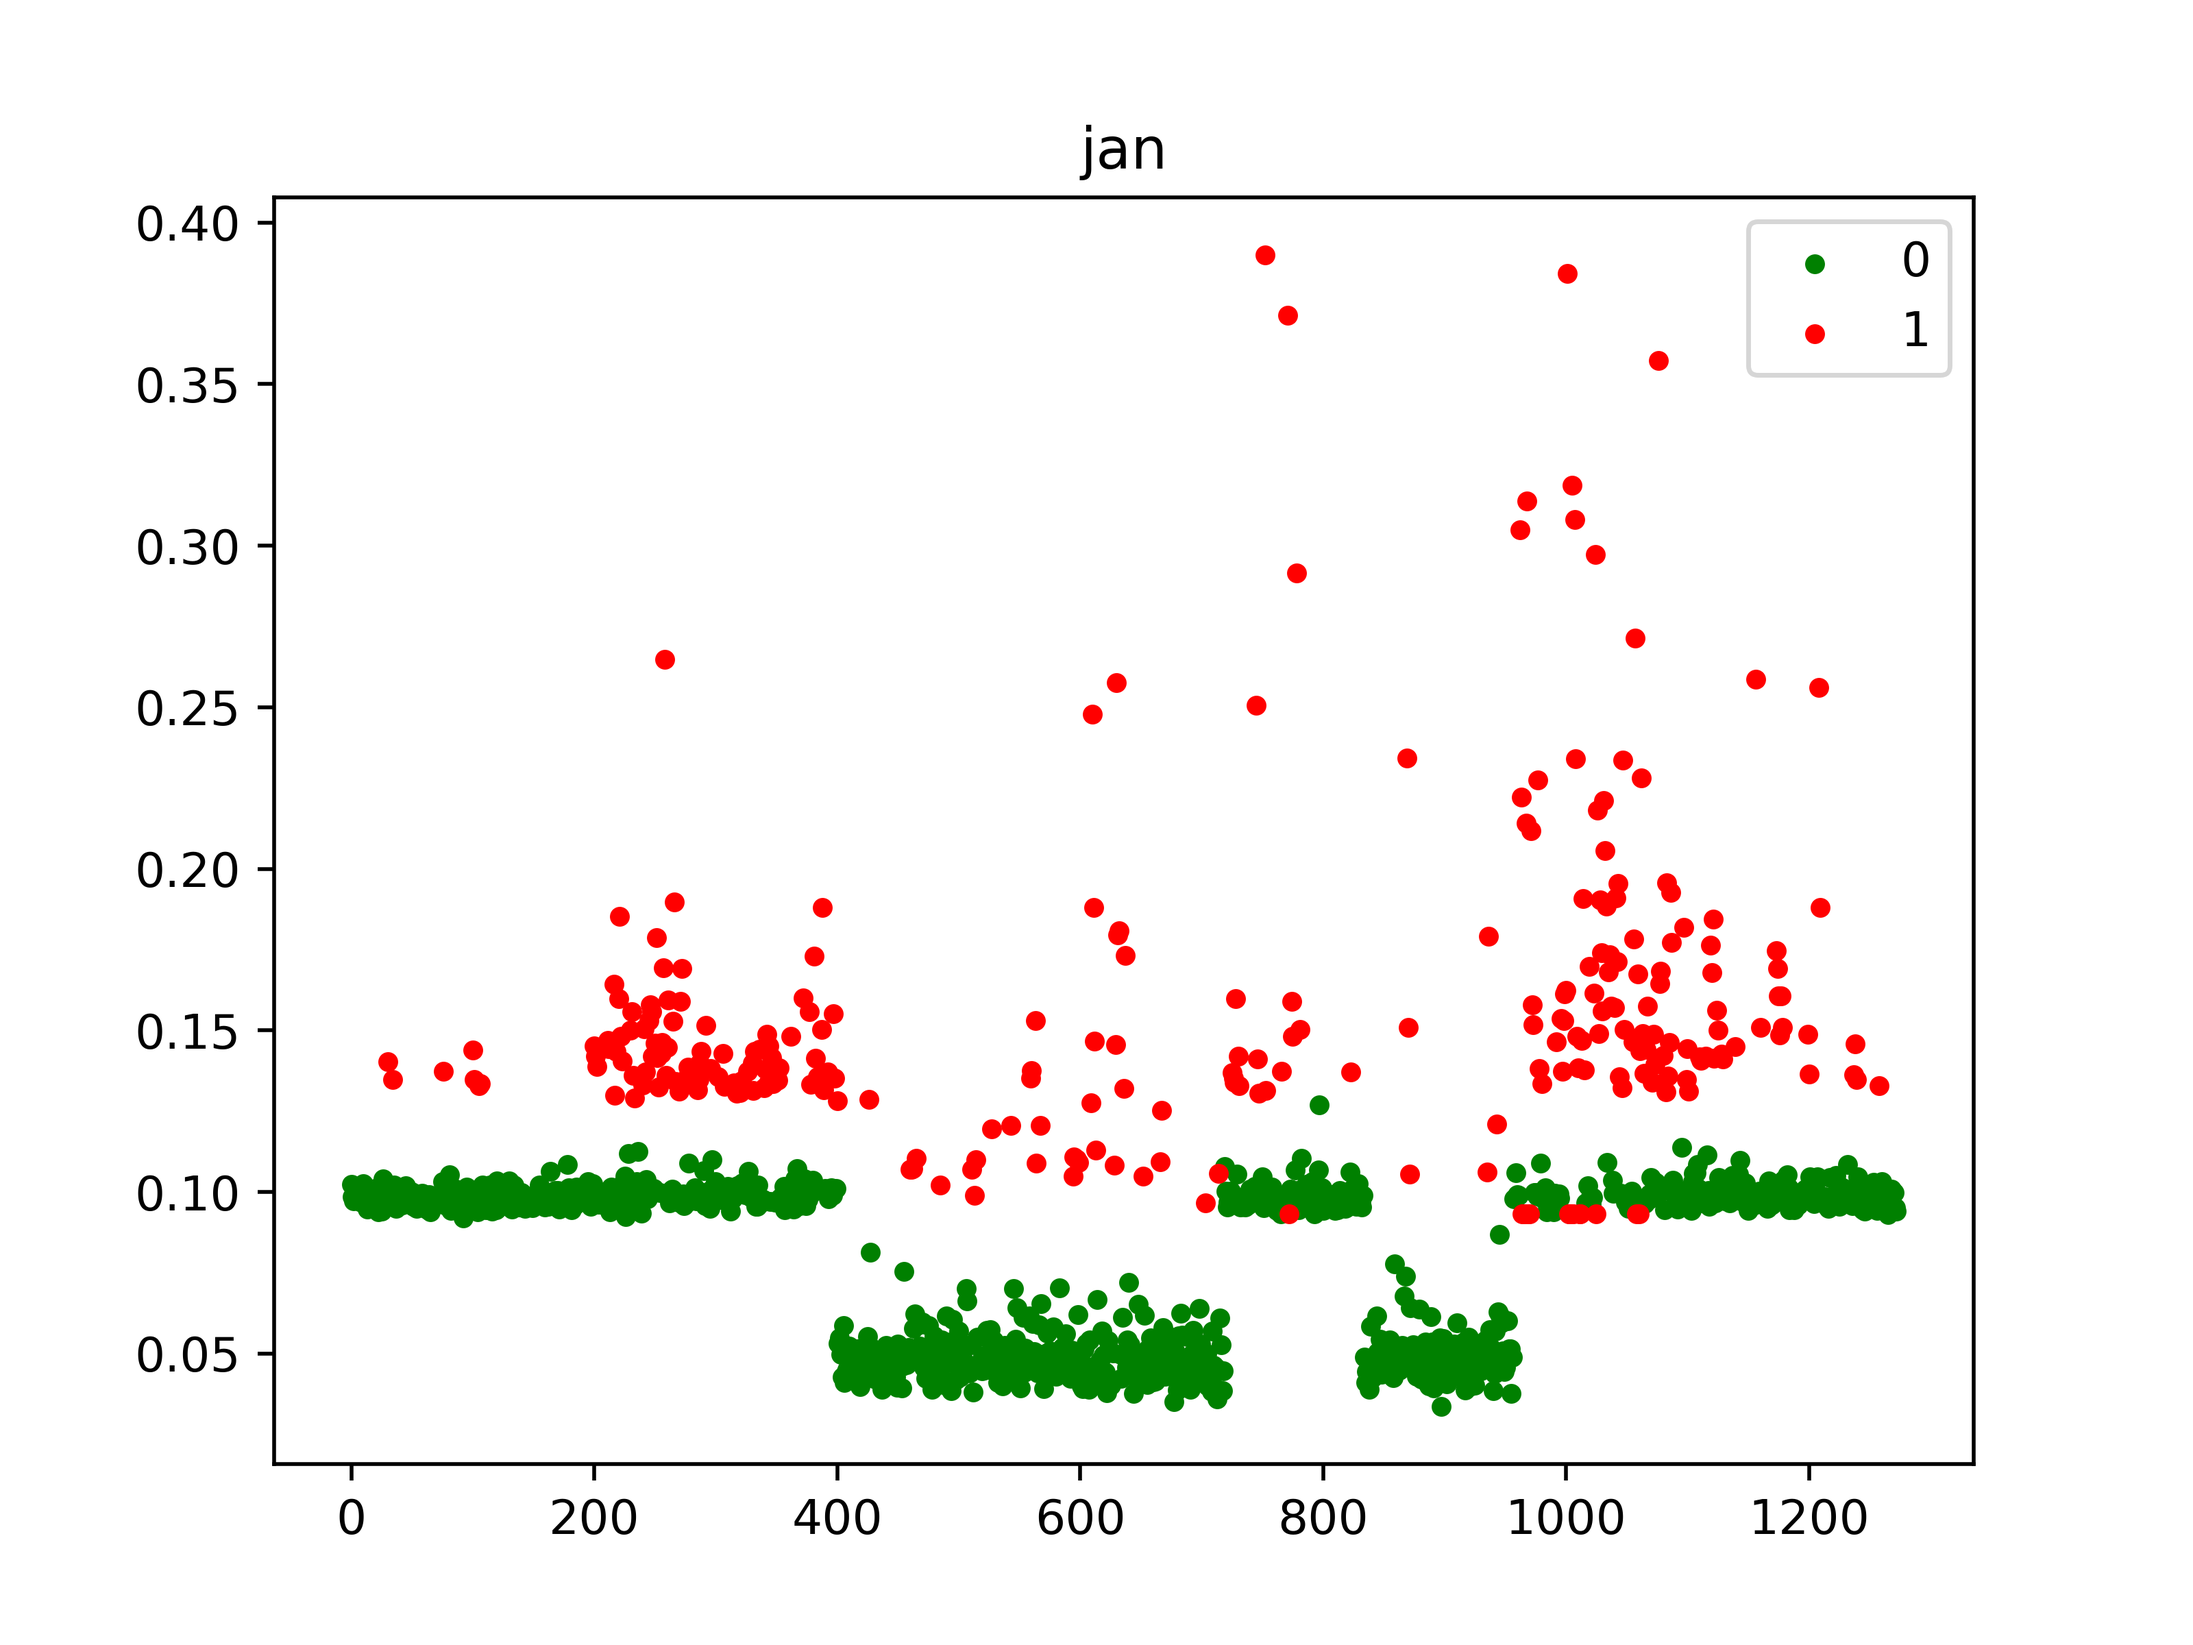
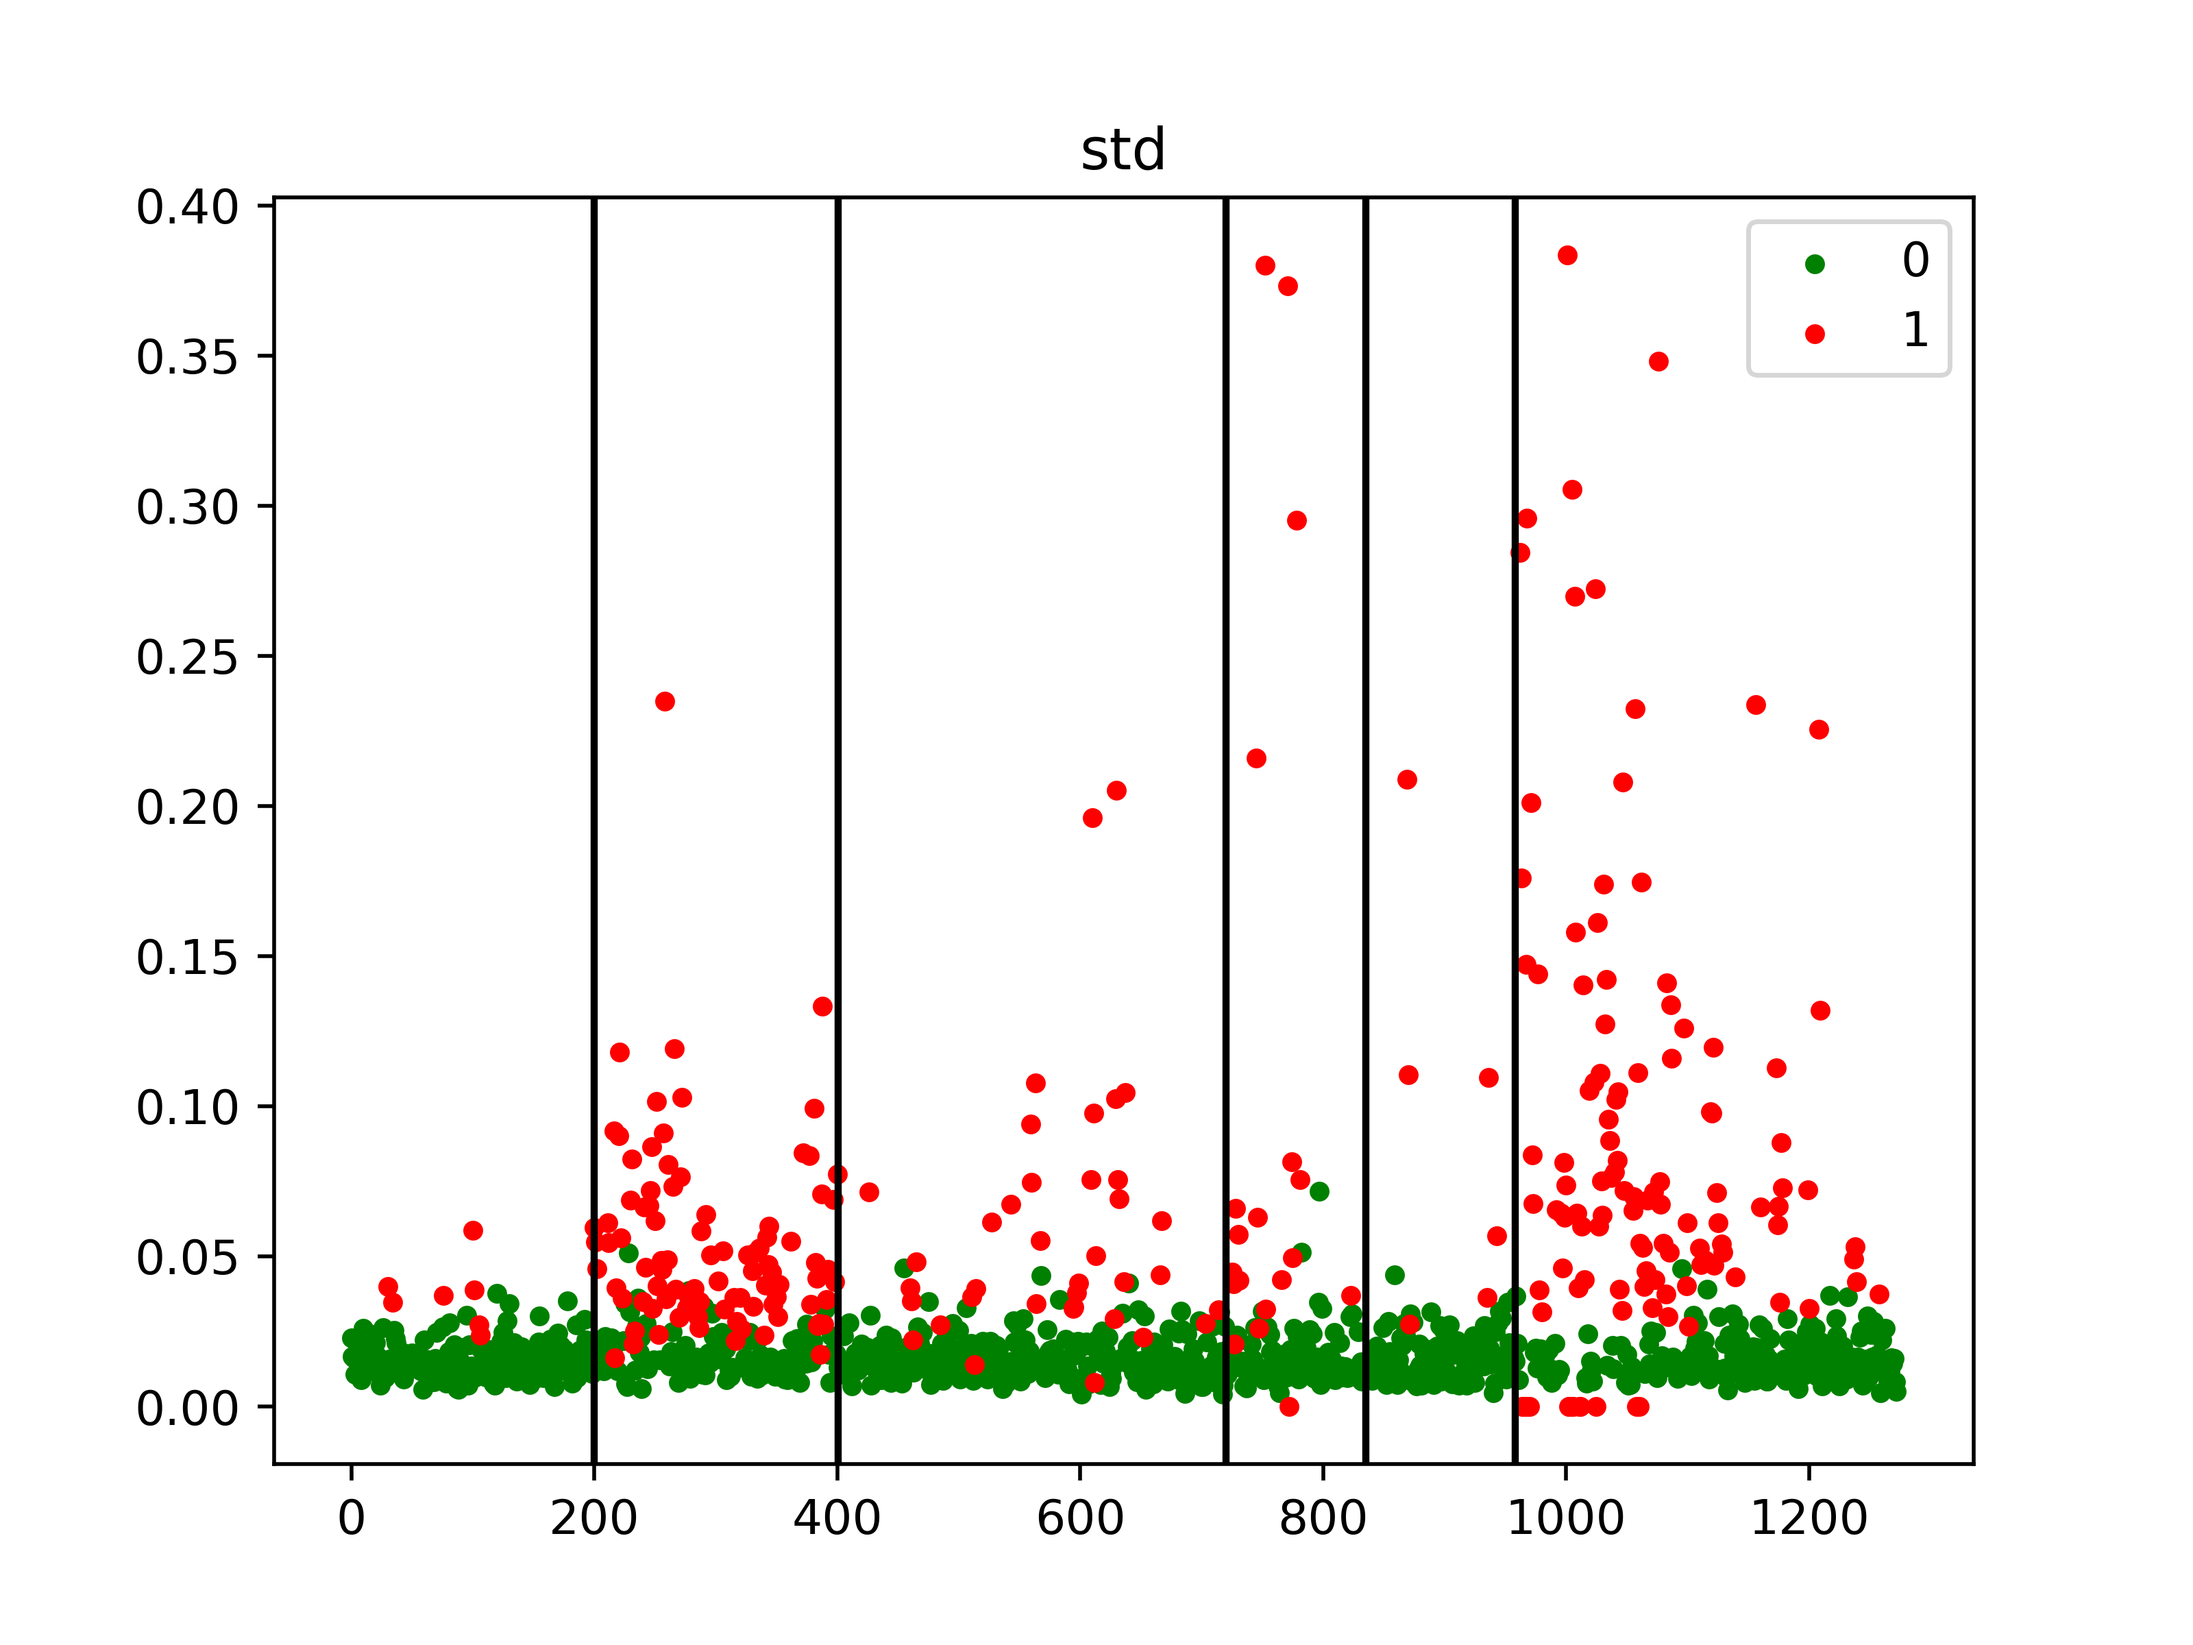
merged mean_std_data_Nikita

diff --git a/Data/Code For Visualizations and Alanysis/mean_std_data_Nikita.py b/Data/Code For Visualizations and Alanysis/mean_std_data_Nikita.py
@@ -20,7 +20,8 @@ import matplotlib.pyplot as plt
 
 def read_pandas(datafile):
     df = pd.read_excel(io=datafile)
-    return df
+    df_just_signal = df.drop(['not OK', 'WD40', 'Gleitmo'], axis = 1)
+    return df, df_just_signal
 
 def mean_and_std (pandas_df):
     mean = pandas_df.mean(axis = 1)
@@ -42,9 +43,10 @@ if __name__ == "__main__":
     TH1_DN = "../OOT/S1_DN_OOT_ONLY.xlsx"
     TH2 = "../OOT/S2_OOT_ONLY.xlsx"
 
-    data = read_pandas(S1_DN)
-    mean, std = mean_and_std(data)
-    rmsvalues = pd.Series([RMS(e[1]) for e in data.iterrows()])
+    data, data_just_signal = read_pandas(S1_DN)
+    mean, std = mean_and_std(data_just_signal)
+    rmsvalues = pd.Series([RMS(e[1]) for e in data_just_signal.iterrows()])
+
     x = np.arange(len(mean))
     plt.title("mean")                       #MEAN
     plt.scatter(x, mean)
